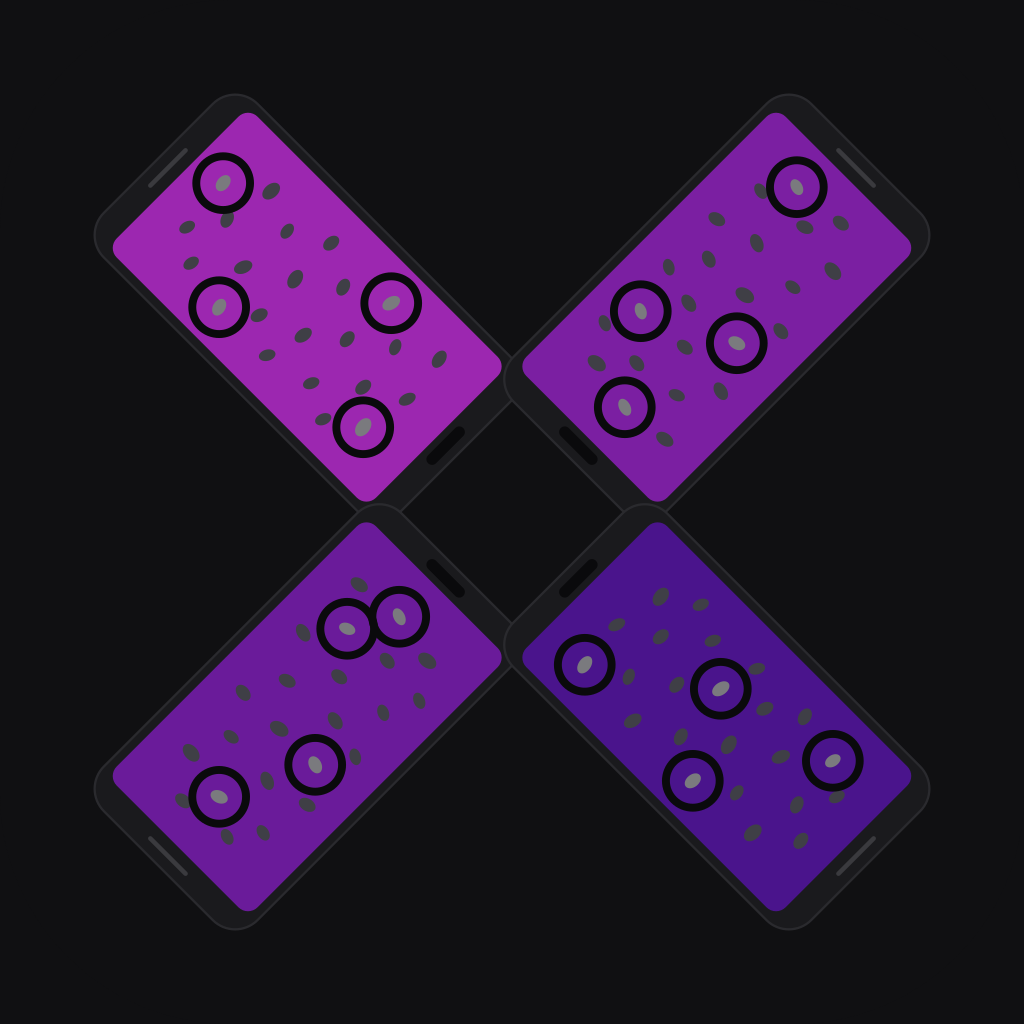
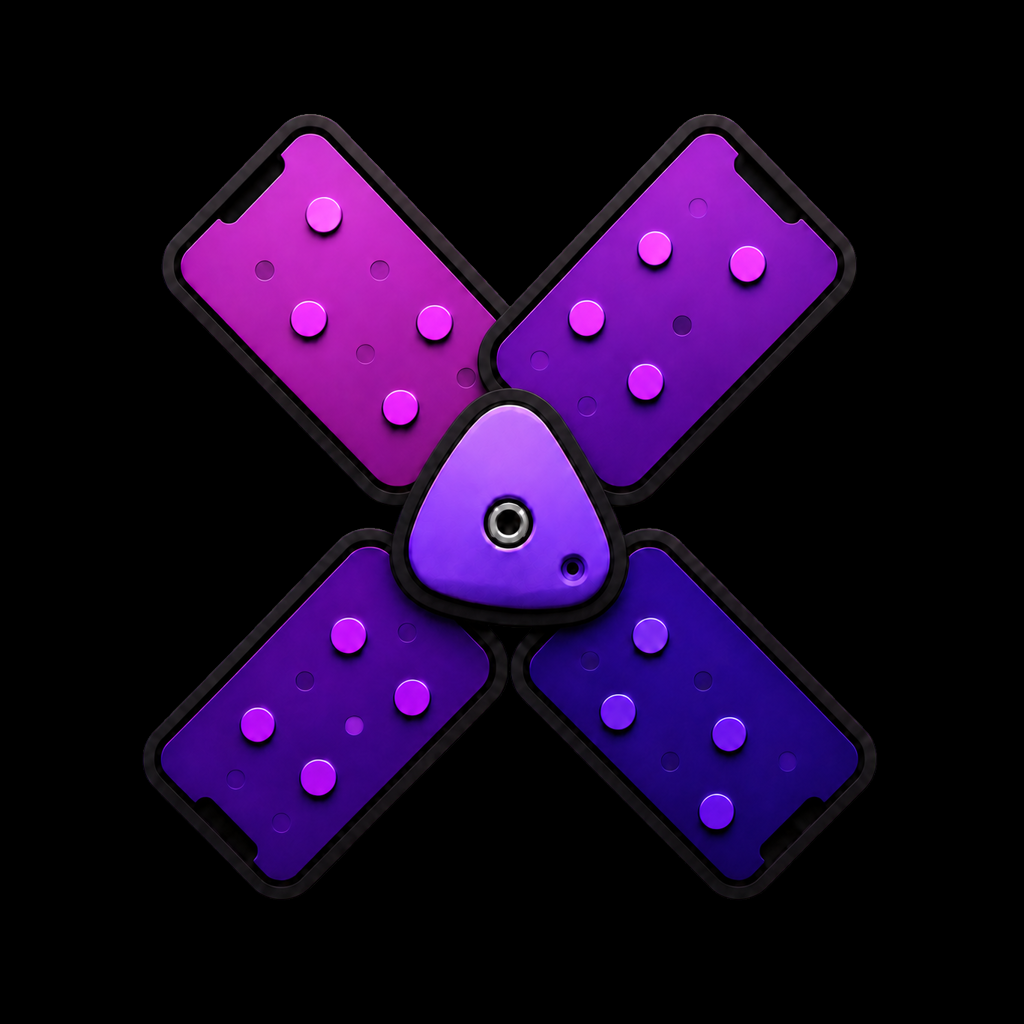
Refresh mobile launch assets

diff --git a/packages/mobile/app.config.ts b/packages/mobile/app.config.ts
@@ -153,16 +153,13 @@ export default ({ config }: ConfigContext): ExpoConfig & { newArchEnabled?: bool
       // default is already false; we set it explicitly so nobody flips it on
       // before that regression is fixed upstream.
       predictiveBackGestureEnabled: false,
-      // Adaptive launcher icon. The brand mark (assets/icon.png) is a
-      // full-bleed design on black, so we pin the adaptive background to black
-      // — without this, Expo's prebuild defaults the background to white and
-      // the dark icon sits inside a white squircle ring on most launchers.
-      // TODO(Phase 6): replace foregroundImage with a safe-zone-padded
-      // foreground (108dp canvas / 66dp safe zone) and add `monochromeImage`
-      // (single-colour silhouette) for Android 13+ themed icons, supplied by a
-      // designer (no AI-generated art).
+      // Adaptive launcher icon. The foreground is a transparent, safe-zone
+      // padded version of the brand mark; the black background keeps launchers
+      // from placing the dark mark inside a white squircle.
+      // TODO(Phase 6): add `monochromeImage` (single-colour silhouette) for
+      // Android 13+ themed icons, supplied by a designer (no AI-generated art).
       adaptiveIcon: {
-        foregroundImage: './assets/icon.png',
+        foregroundImage: './assets/adaptive-icon.png',
         backgroundColor: '#000000',
       },
       permissions: [
@@ -207,19 +204,17 @@ export default ({ config }: ConfigContext): ExpoConfig & { newArchEnabled?: bool
       'expo-maps',
       'expo-status-bar',
       // Android 12+ system splash + the launch screen on every platform. The
-      // brand mark sits on its own black background, so both schemes use black
-      // for a seamless icon-to-app handoff. app/_layout.tsx already drives
+      // transparent brand mark sits on a black background for a consistent
+      // icon-to-app handoff. app/_layout.tsx already drives
       // SplashScreen.preventAutoHideAsync()/hideAsync() once auth is ready.
-      // TODO(Phase 6): swap `image` for a dedicated splash asset if design wants
-      // one distinct from the launcher icon.
       [
         'expo-splash-screen',
         {
-          image: './assets/icon.png',
+          image: './assets/splash-icon.png',
           imageWidth: 200,
           resizeMode: 'contain',
           backgroundColor: '#000000',
-          dark: { image: './assets/icon.png', backgroundColor: '#000000' },
+          dark: { image: './assets/splash-icon.png', backgroundColor: '#000000' },
         },
       ],
       'expo-updates',

diff --git a/packages/mobile/modules/live-activity/android/src/main/java/com/boardsesh/liveactivity/BoardSessionService.kt b/packages/mobile/modules/live-activity/android/src/main/java/com/boardsesh/liveactivity/BoardSessionService.kt
@@ -96,9 +96,7 @@ class BoardSessionService : Service() {
 
     private fun buildNotification(): Notification {
         val builder = NotificationCompat.Builder(this, CHANNEL_ID)
-            // TODO(Phase 6): replace with a dedicated white-silhouette Boardsesh
-            // notification icon (the app launcher icon renders as a white blob).
-            .setSmallIcon(android.R.drawable.ic_media_play)
+            .setSmallIcon(R.drawable.ic_boardsesh_notification)
             .setContentTitle(climbName ?: contentTitleFallback)
             .setContentText(subtitle ?: "")
             .setOngoing(true)

diff --git a/packages/mobile/docs/android-background-session.md b/packages/mobile/docs/android-background-session.md
@@ -53,8 +53,6 @@ the BLE gate: a denial only hides the notification; the service still runs.
   Android-14 reconnect issues; explicit reconnect hardening and tying the service
   to the raw BLE connect/disconnect (rather than only session presence) is a
   device-tested follow-up.
-- **Notification small icon** is a placeholder (`ic_media_play`) until a
-  dedicated white-silhouette asset lands (Phase 6).
 - **OEM battery killers** (Samsung/Xiaomi) can still kill a connectedDevice FGS;
   an in-app battery-optimization explainer is a possible later mitigation.
 - **Play policy**: `FOREGROUND_SERVICE_CONNECTED_DEVICE` needs a Foreground
